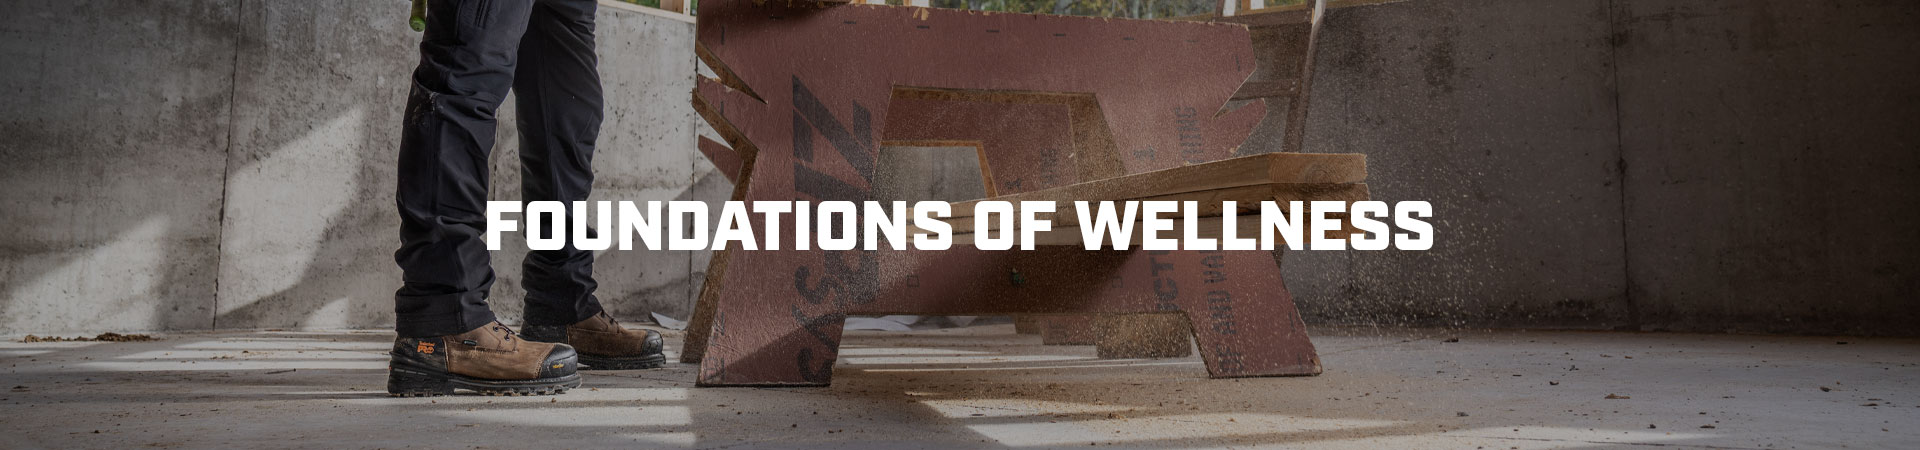
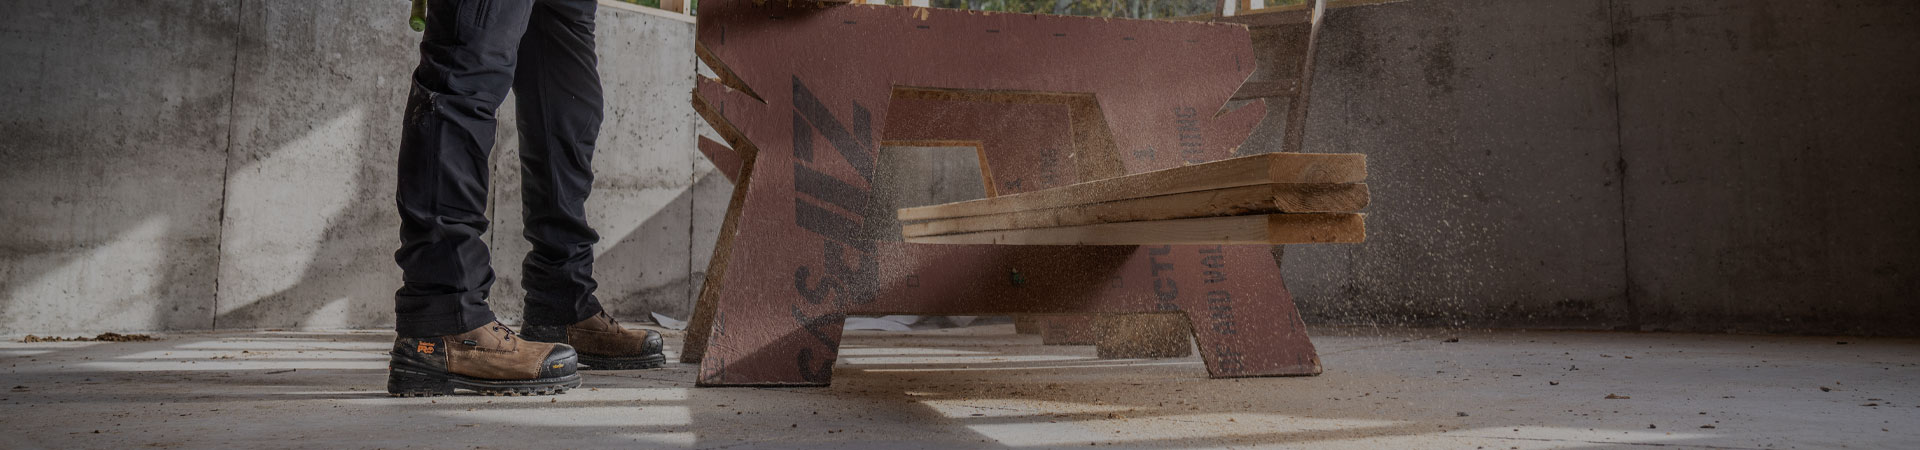
add png for text

Changed region(s): [[0.25, 0.4356, 0.75, 0.56]]

diff --git a/wellness.html b/wellness.html
@@ -334,8 +334,16 @@
       <div class="row ml-0 mr-0 marginTop15">
         <div class="col-md-12 colMaxWidth95">
         <div class="card card-main-styling" style="width:80%;height:auto;">
-            <div class="row" role="listbox" style="background:url('img/foundations-of-wellness-block.jpg');margin-right:0px;">
+          <div class="row" role="listbox" style="background:url('img/foundations-of-wellness-block.jpg');margin-right:0px;">
+            <div class="carousel-item active">
+              <div class="carousel-background"></div>
+              <div class="carousel-container" style="position:inherit!important;">
+                <div class="carousel-content">
+                  <img src="img/foundations_text.png" style="padding-top:75px;max-width:80%;">
+                </div>
+              </div>
             </div>
+          </div>
             <div class="card-body">
                 <p class="card-text" style="text-align: center;">Compression Socks Benefits + Custom Orthotics Benefits + Boot Construction Benefits = Greater Than Individual Benefits </p>
                 <a href="foundation-of-wellness.html" class="btn btn-primary trendingButtons" style="margin:0 auto;">LEARN MORE</a>
